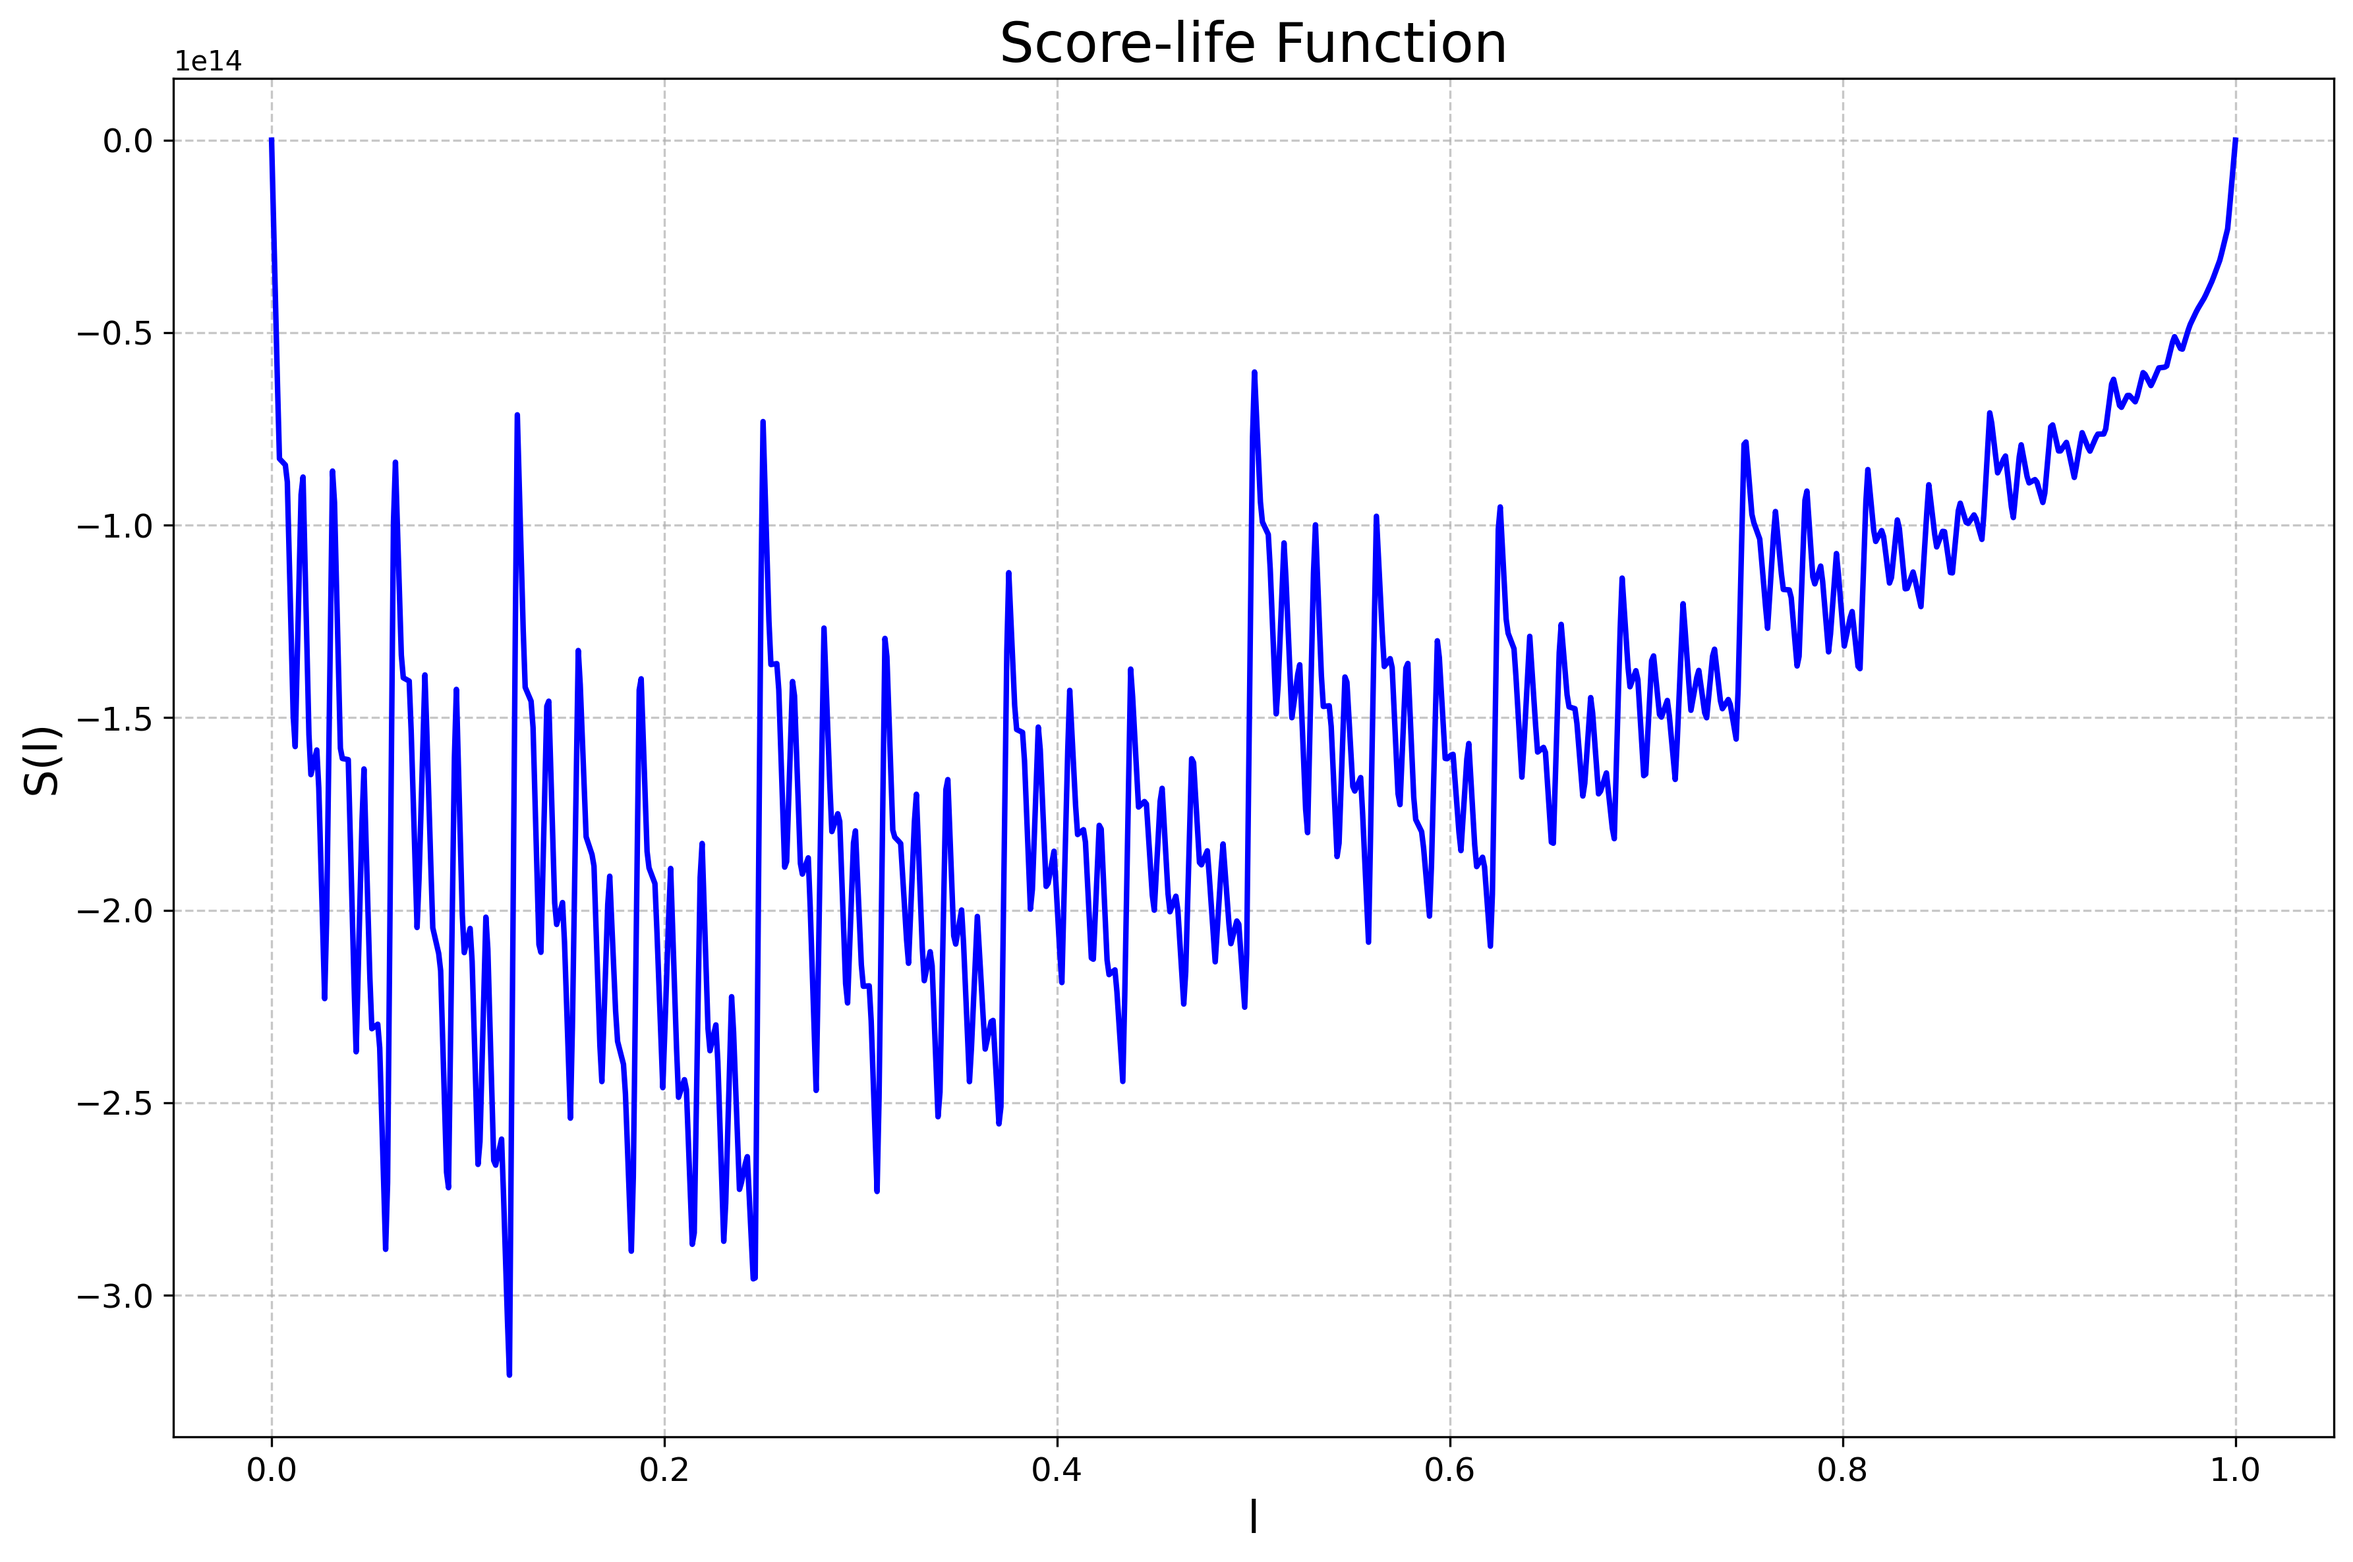
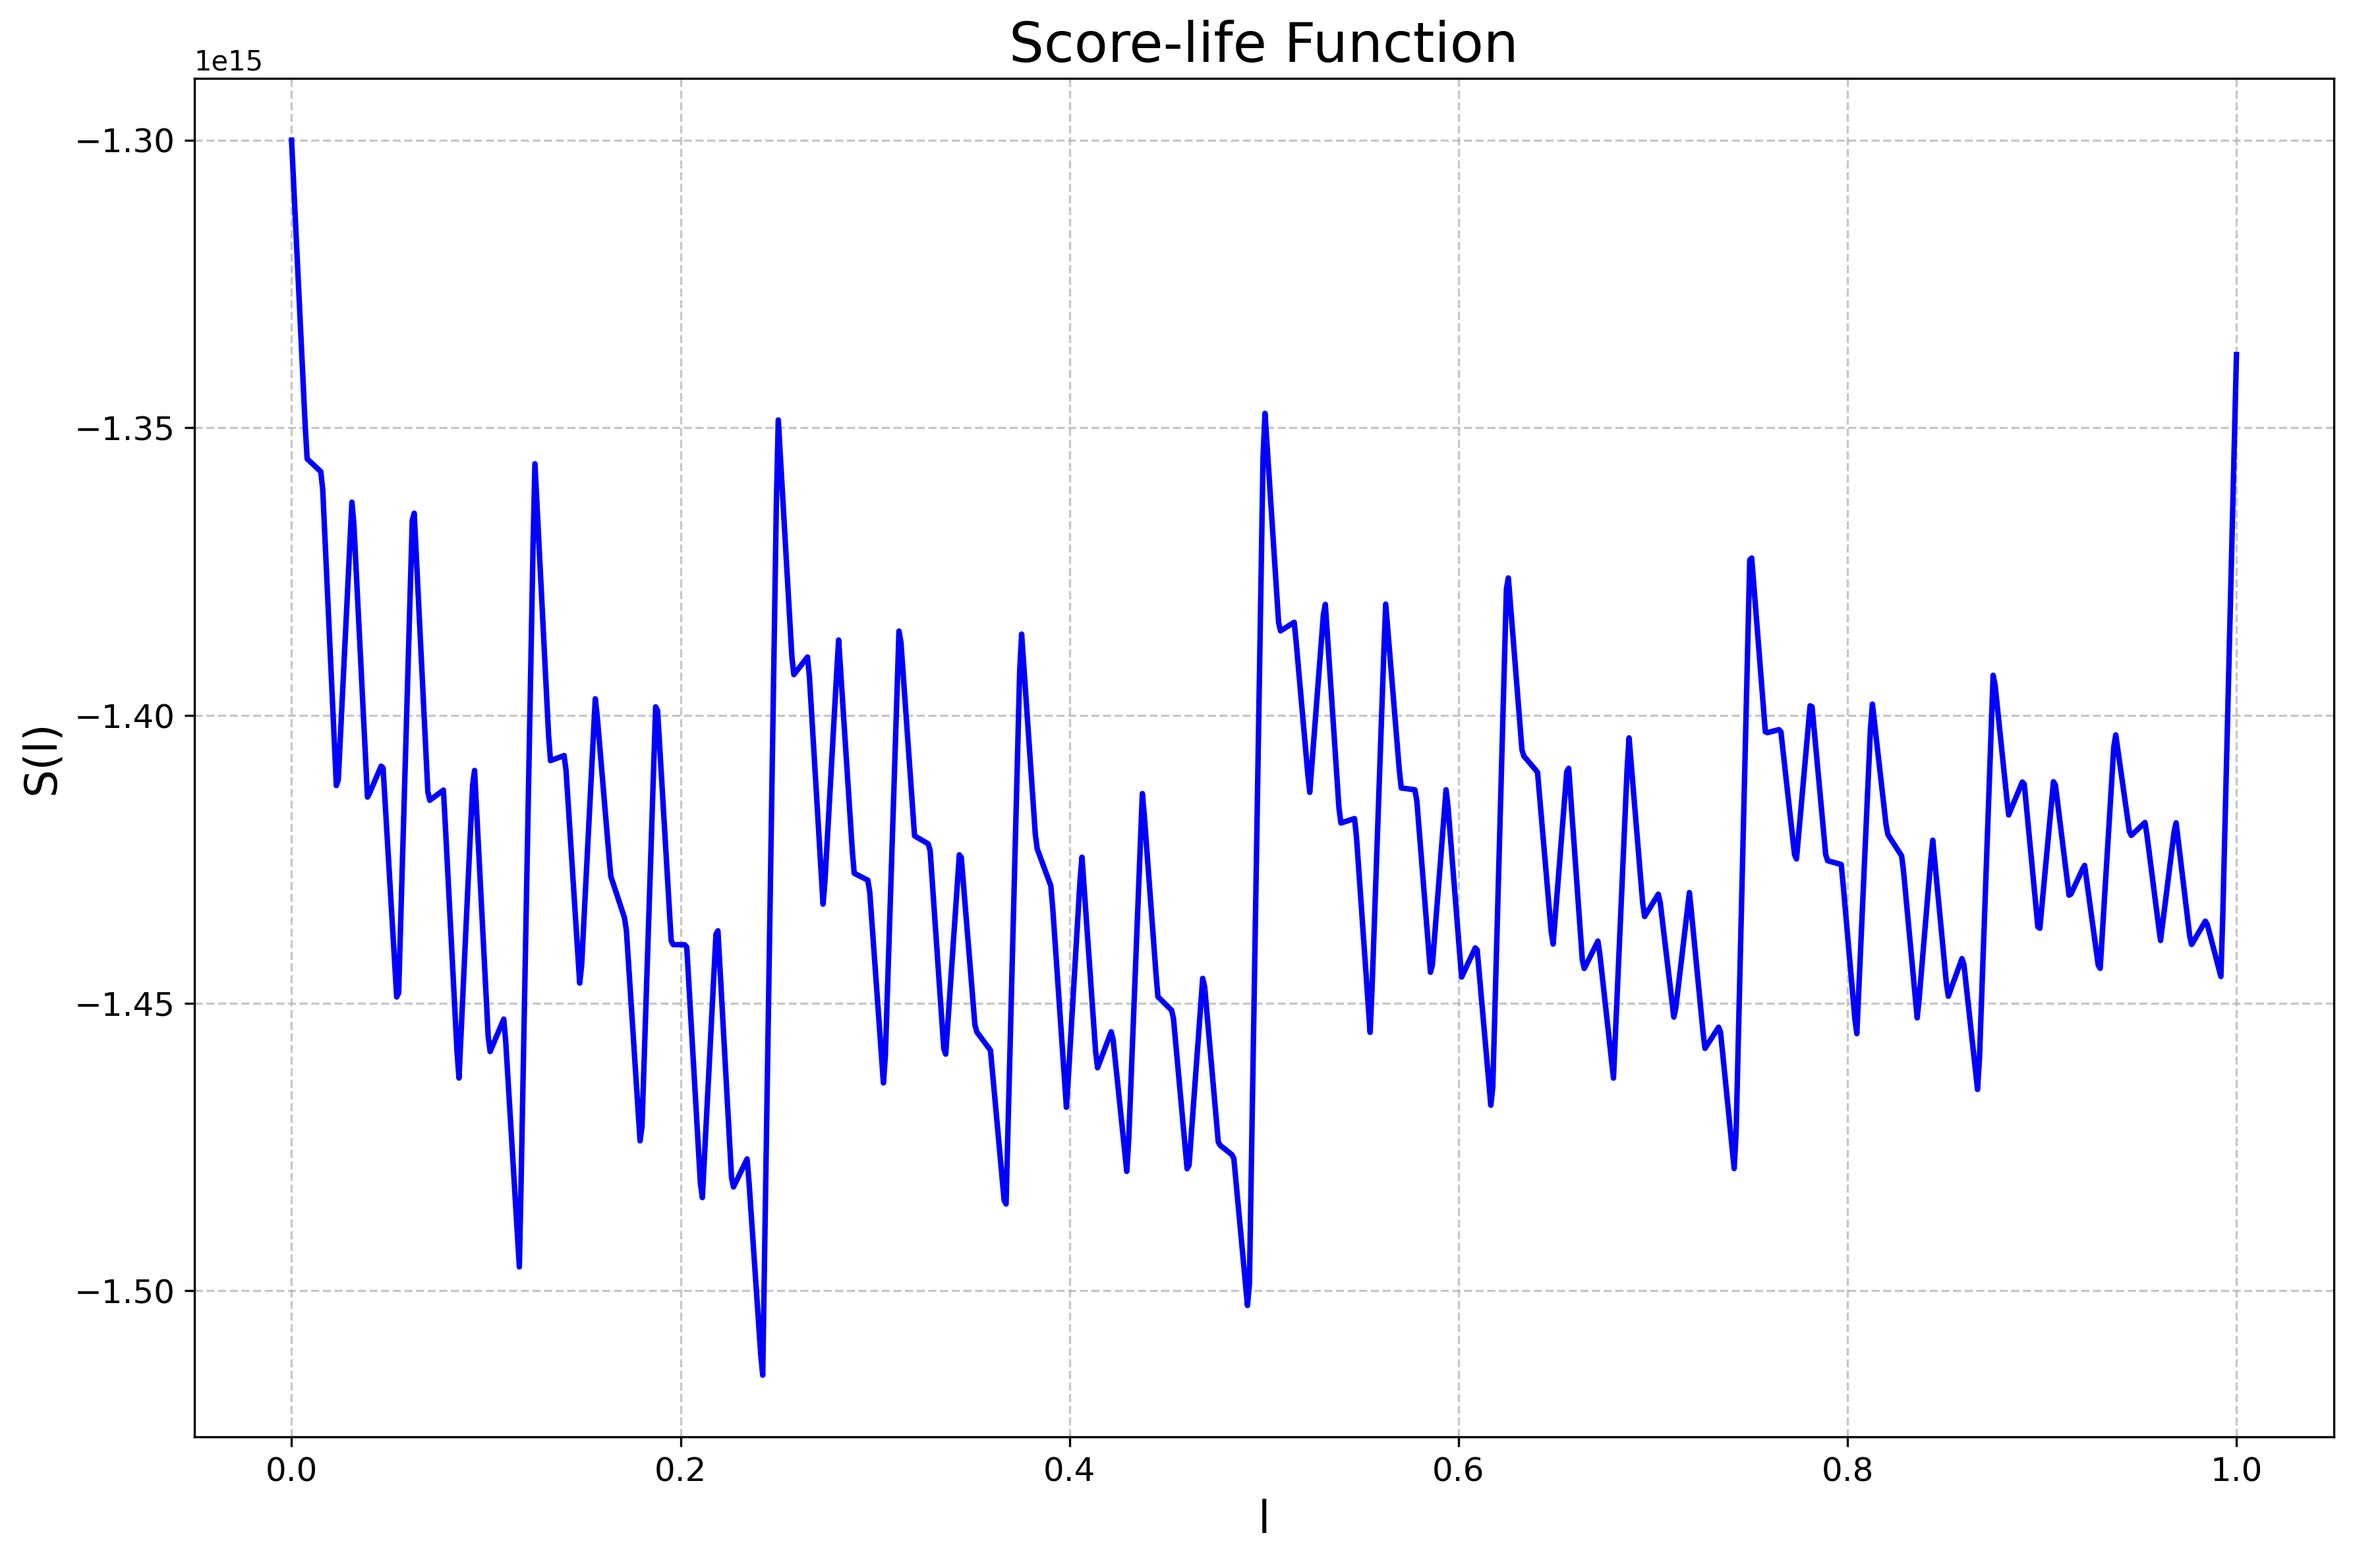
modified fractal definition code

diff --git a/src/utils/score_life_programming.py b/src/utils/score_life_programming.py
@@ -60,6 +60,30 @@ class ScoreLifeProgramming:
             else:
                 binary += '0'
         return binary
+    
+    def _divide_nested_list(self,nested_list, constant):
+        if isinstance(nested_list, list):
+            return [self._divide_nested_list(item, constant) for item in nested_list]
+        else:
+            return nested_list / constant
+
+    def compute_score_function_one_step(self,state,action) -> Fractal:
+        avg_reward = 0
+        self.env.set_state(state)
+        for i in range(self.num_samples):
+            nxt_state,reward = self.env.step(action)
+            avg_reward = avg_reward + reward
+            self.env.set_state(state)
+        avg_reward = avg_reward/self.num_samples
+        print(avg_reward)
+        beta_0 = (self.score_function_reference_state.alpha_0 + avg_reward)*self.gamma
+        beta_1 = self.score_function_reference_state.alpha_1*self.gamma
+        print(self.score_function_reference_state.coefficients)
+        coeff_prime = self._divide_nested_list(self.score_function_reference_state.coefficients,1/self.gamma)
+        j_shift = 1
+        score_function_one_step = Fractal(beta_0,beta_1,coeff_prime ,j_shift)
+        return score_function_one_step 
+
 
 
     def compute_score_function(self, state) -> Fractal:
@@ -173,7 +197,7 @@ class ScoreLifeProgramming:
                 i = i + 1
             coefficients.append(c_j)
             j = j + 1
-        fractal_function = Fractal(a_0,a_1,coefficients)
+        fractal_function = Fractal(a_0,a_1,coefficients,0)
         return fractal_function
     
     def _derivative_mod_x(a,b,x):

diff --git a/src/utils/fractal.py b/src/utils/fractal.py
@@ -10,7 +10,7 @@ import matplotlib.pyplot as plt
 
 class Fractal:
 
-    def __init__(self,alpha_0,alpha_1,coefficients):
+    def __init__(self,alpha_0,alpha_1,coefficients,j_shift):
 
         """
 
@@ -23,6 +23,7 @@ class Fractal:
         self.alpha_0 = alpha_0 
         self.alpha_1 = alpha_1
         self.coefficients = coefficients 
+        self.j_shift = j_shift
 
     def _derivative_mod_x(self,a,b,x):
 
@@ -65,8 +66,10 @@ class Fractal:
         return grad_f
     
     def _e_i_j(self,l,i,j):
+        j = j - self.j_shift
         val = (2**j)*(abs(l-(i/(2**j))) + abs(l-((i+1)/(2**j))) - abs(2*l-((2*i+1)/(2**(j)))))
         return val
+    
 
     def compute_fractal(self,l):
 
@@ -84,7 +87,7 @@ class Fractal:
         return f
 
     def visualize_fractal(self):
-        
+
         l_values = np.linspace(0, 1, 1000)
         S_values = np.array([self.compute_fractal(l) for l in l_values])
         plt.figure(figsize=(12, 8))

diff --git a/scratchpad/economics.py b/scratchpad/economics.py
@@ -15,3 +15,6 @@ s = ScoreLifeProgramming(bus_engine_env,gamma, N, j_max,num_samples,reference_st
 
 print(s.score_function_reference_state.coefficients)
 s.score_function_reference_state.visualize_fractal()
+
+state = 100000000000000
+s.compute_score_function_one_step(state,0).visualize_fractal()
